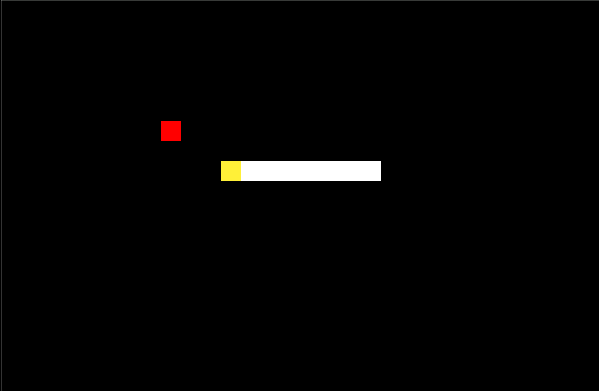
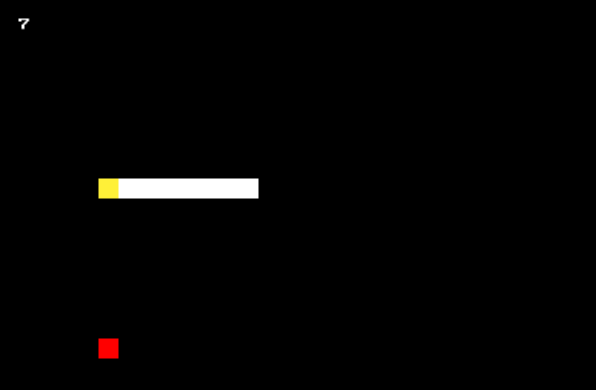
score was added

diff --git a/internal/game/game.go b/internal/game/game.go
@@ -27,6 +27,16 @@ func NewGame(width, height int) (*Game, error) {
 		return nil, fmt.Errorf("failed to load font: %w", err)
 	}
 
+	font12 = &text.GoTextFace{
+		Source: textSource,
+		Size:   12,
+	}
+
+	font24 = &text.GoTextFace{
+		Source: textSource,
+		Size:   24,
+	}
+
 	return &Game{
 		width:     width,
 		height:    height,
@@ -101,6 +111,7 @@ func (g *Game) Draw(screen *ebiten.Image) {
 		return
 	}
 
+	g.drawScore(screen)
 	g.drawSnake(screen, g.snake)
 	g.drawFood(screen, g.food)
 }
@@ -133,26 +144,26 @@ func (g *Game) drawFood(screen *ebiten.Image, food *food.Food) {
 	vector.DrawFilledRect(screen, float32(food.GetPoint().X*g.gridSize), float32(food.GetPoint().Y*g.gridSize), float32(g.gridSize), float32(g.gridSize), color.RGBA{255, 0, 0, 0}, true)
 }
 
-func (g *Game) drawGameOver(screen *ebiten.Image) {
-	face := &text.GoTextFace{
-		Source: textSource,
-		Size:   24,
-	}
+func (g *Game) drawScore(screen *ebiten.Image) {
+	score := fmt.Sprintf("%d", g.snake.GetScore())
+	options := &text.DrawOptions{}
+	options.GeoM.Translate(float64(g.gridSize), float64(g.gridSize))
+	options.ColorScale.ScaleWithColor(color.White)
+	text.Draw(screen, score, font12, options)
+}
 
-	textWidth, textHeight := text.Measure("Game Over", face, face.Size)
+func (g *Game) drawGameOver(screen *ebiten.Image) {
+	gameOverText := "Game Over"
+	textWidth, textHeight := text.Measure(gameOverText, font24, font24.Size)
 	options := &text.DrawOptions{}
 	options.GeoM.Translate(float64(g.width*g.gridSize/2)-float64(textWidth/2), float64(g.height*g.gridSize/2)-float64(textHeight/2)-20)
 	options.ColorScale.ScaleWithColor(color.White)
-	text.Draw(screen, "Game Over", face, options)
+	text.Draw(screen, gameOverText, font24, options)
 
-	face = &text.GoTextFace{
-		Source: textSource,
-		Size:   12,
-	}
-
-	textWidth, textHeight = text.Measure("Press Enter to start again", face, face.Size)
+	pressEnterText := "Press Enter to start again"
+	textWidth, textHeight = text.Measure(pressEnterText, font12, font12.Size)
 	options = &text.DrawOptions{}
 	options.GeoM.Translate(float64(g.width*g.gridSize/2)-float64(textWidth/2), float64(g.height*g.gridSize/2)-float64(textHeight/2)+20)
 	options.ColorScale.ScaleWithColor(color.White)
-	text.Draw(screen, "Press Enter to start again", face, options)
+	text.Draw(screen, pressEnterText, font12, options)
 }

diff --git a/internal/game/model.go b/internal/game/model.go
@@ -19,4 +19,8 @@ type Game struct {
 	gameOver   bool
 }
 
-var textSource *text.GoTextFaceSource
+var (
+	textSource *text.GoTextFaceSource
+	font12     *text.GoTextFace
+	font24     *text.GoTextFace
+)

diff --git a/internal/snake/snake.go b/internal/snake/snake.go
@@ -54,3 +54,7 @@ func (s *Snake) getNewHead() model.Point {
 
 	return newHead
 }
+
+func (s *Snake) GetScore() int {
+	return len(s.points) - 1
+}
